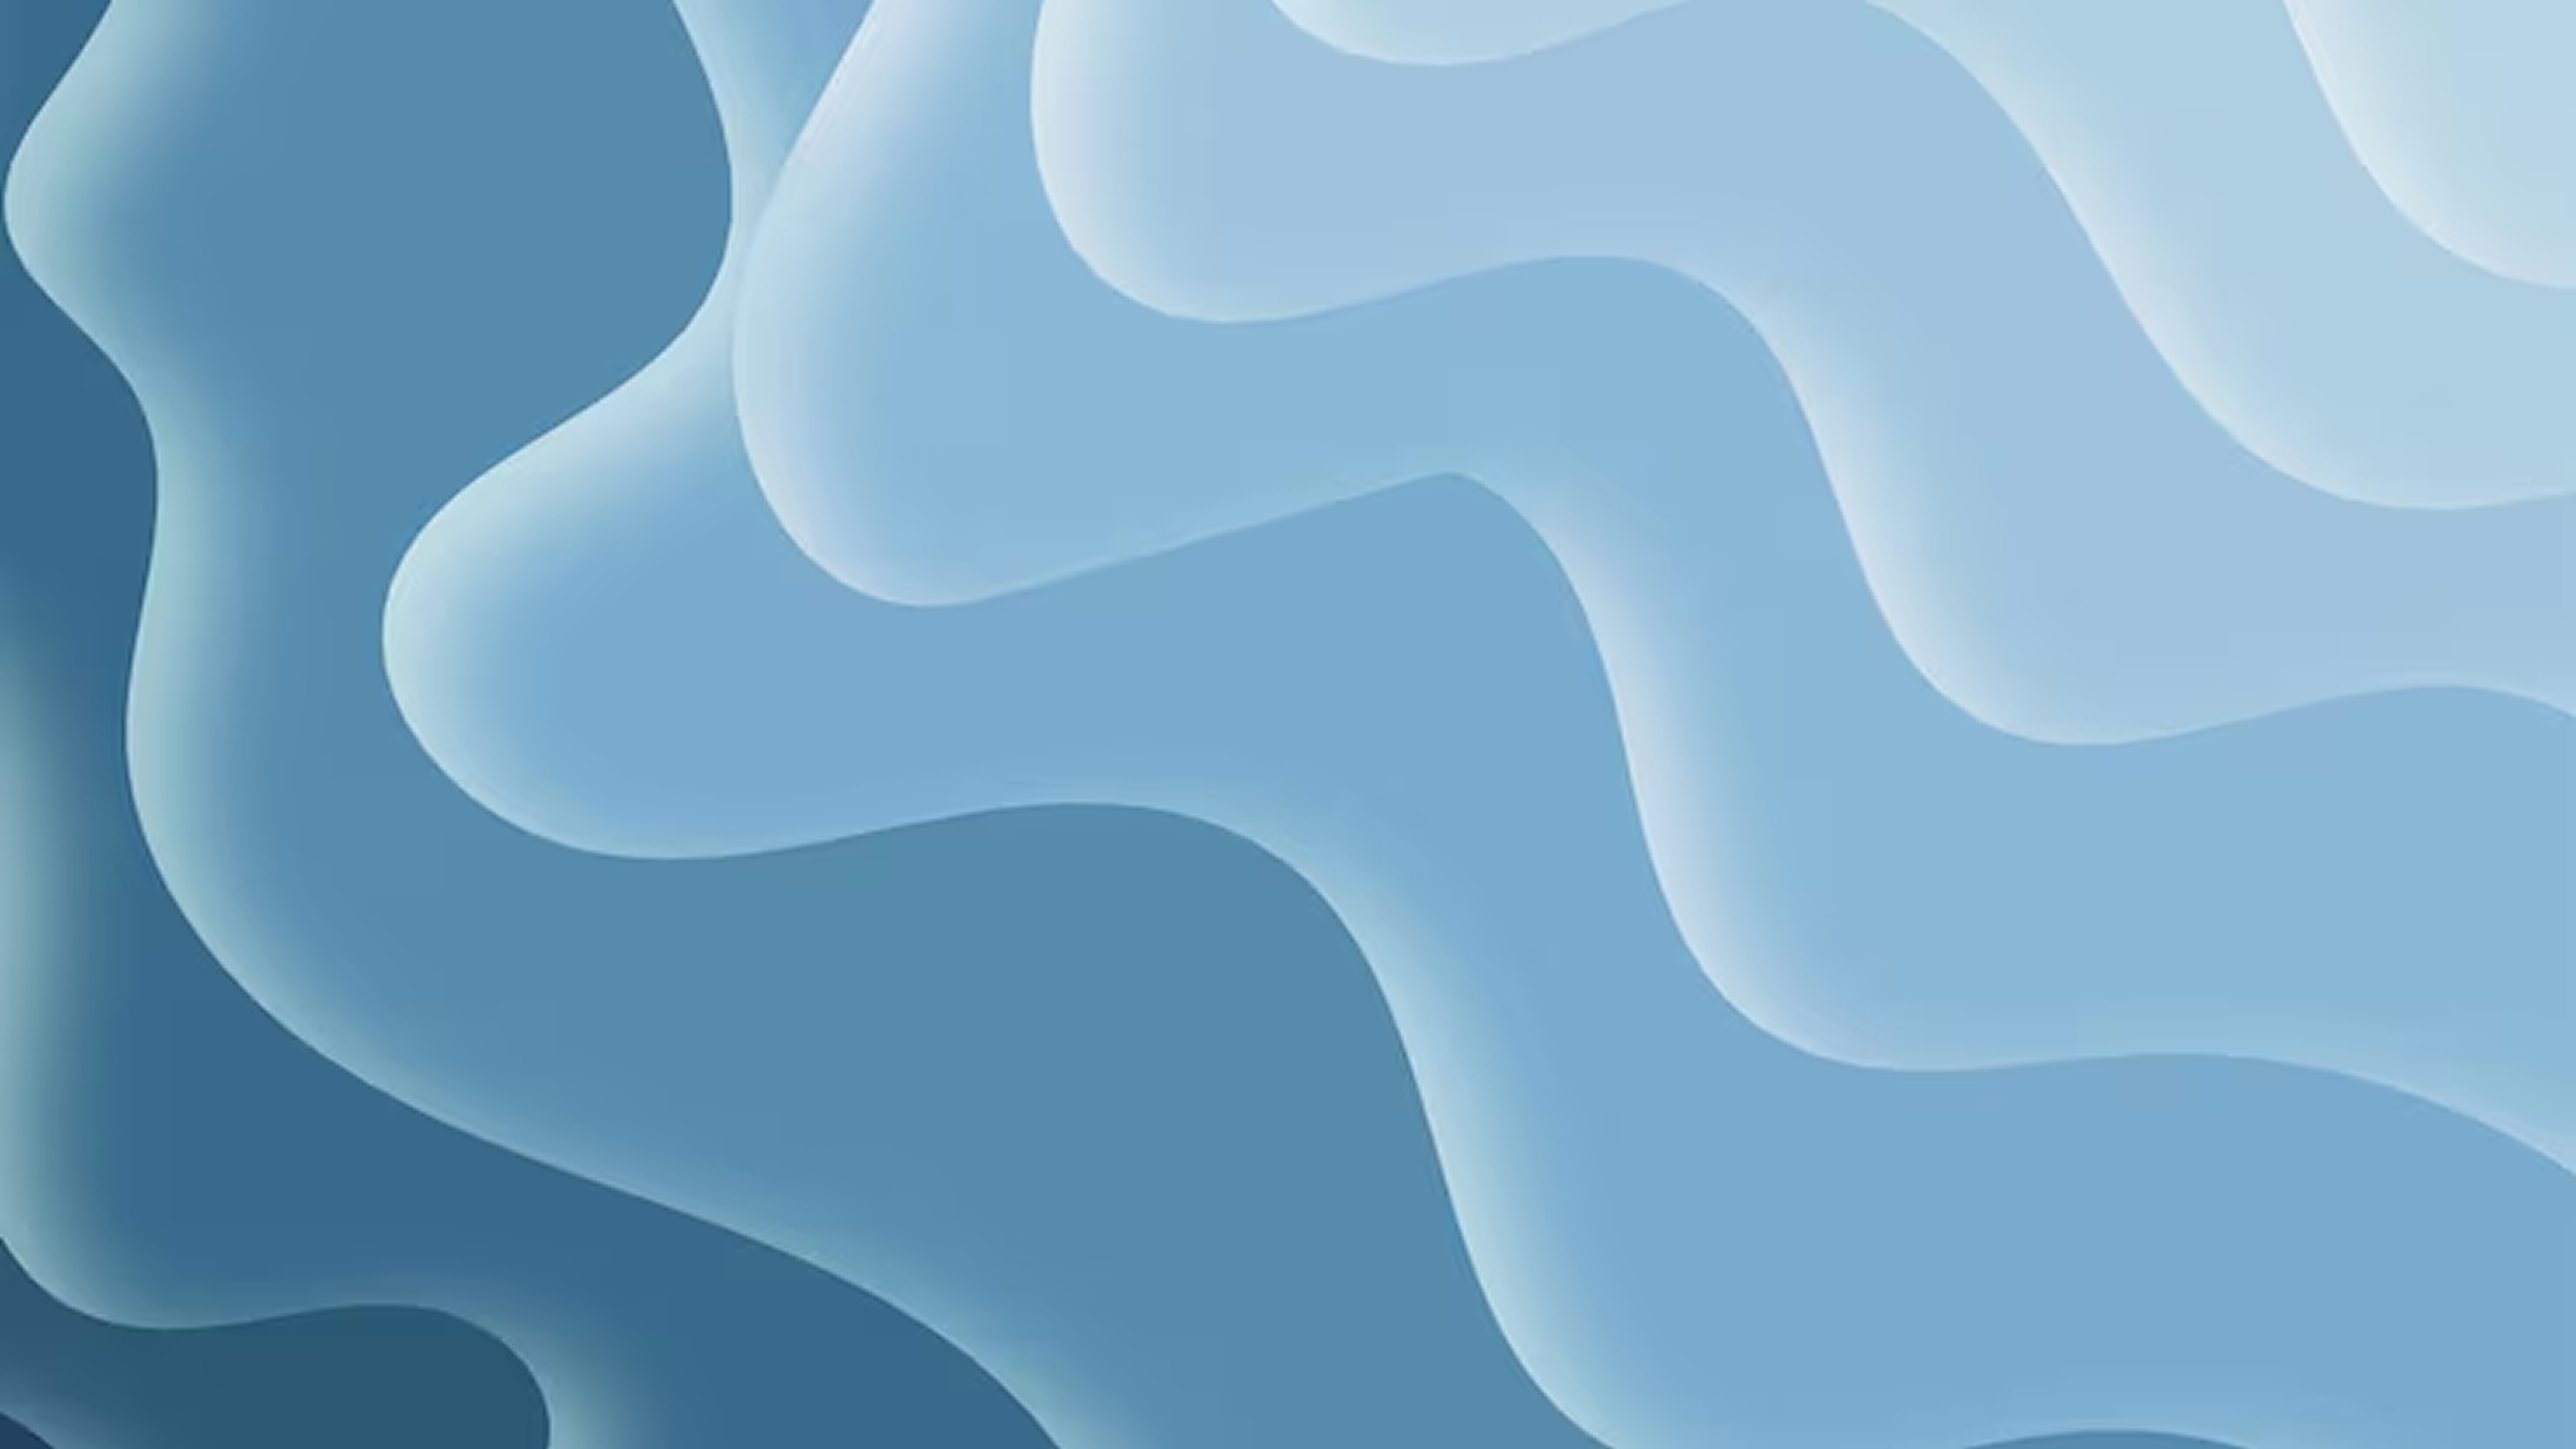
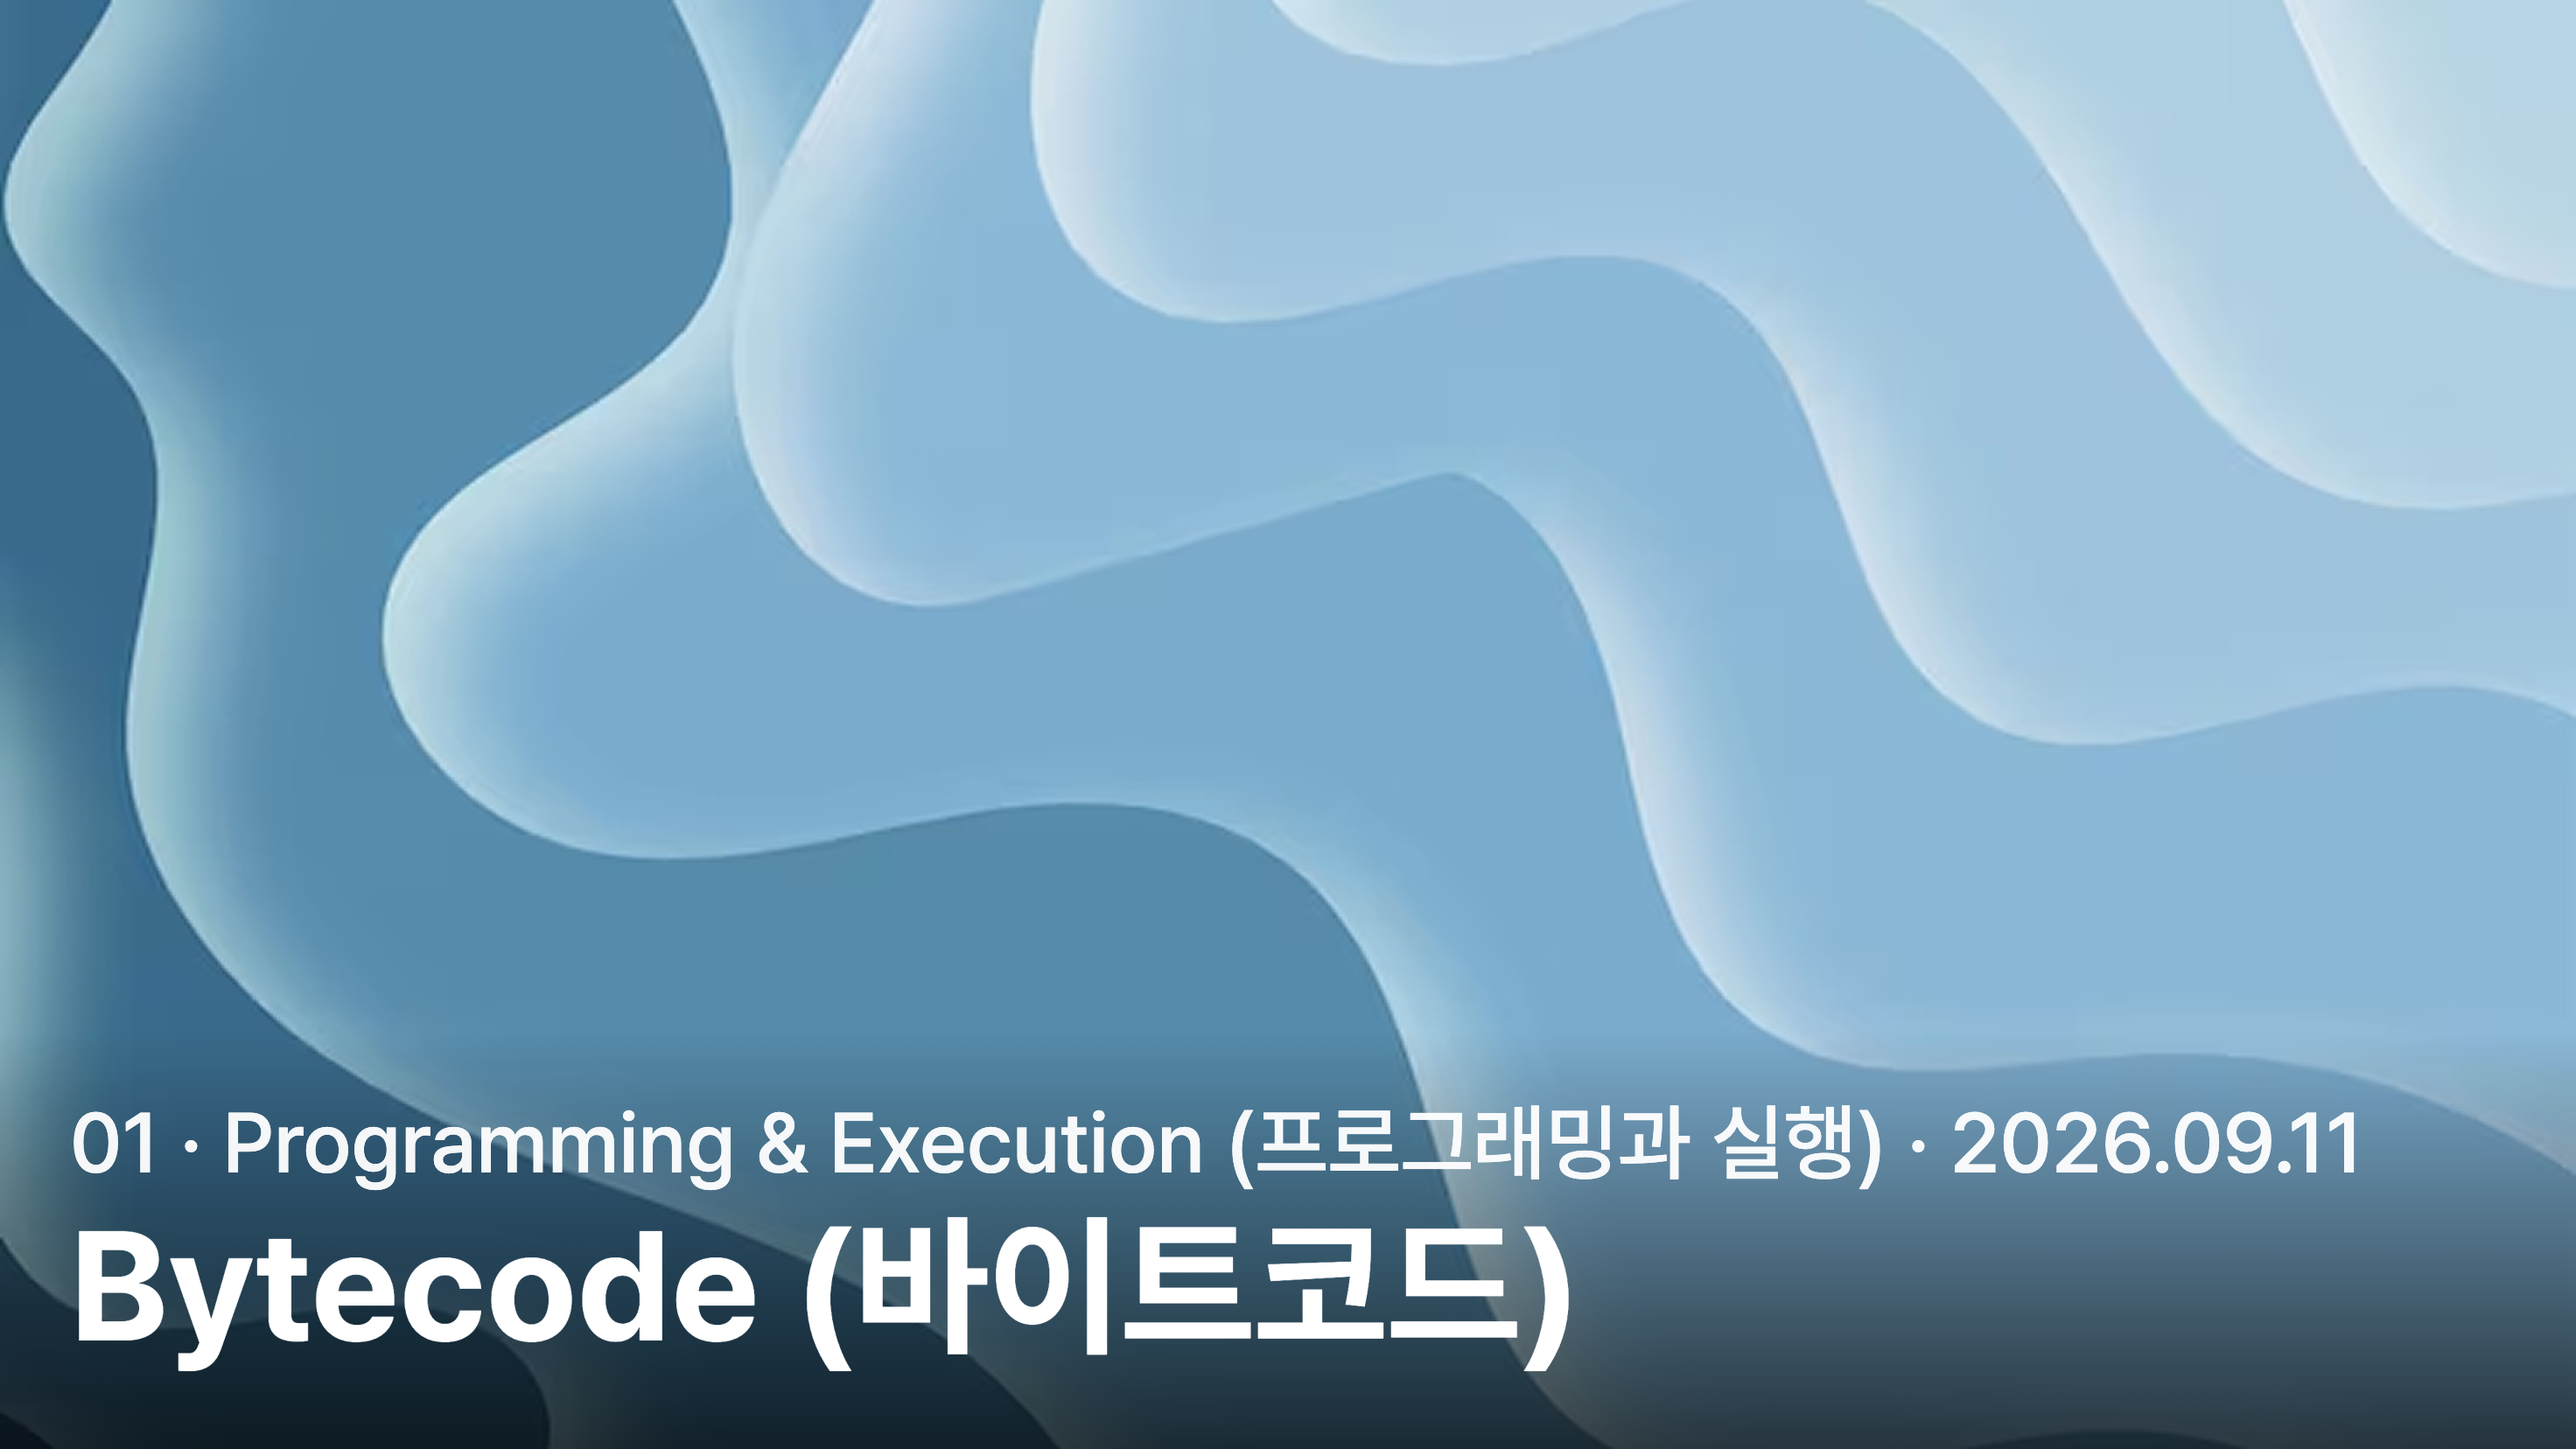
게시글 표지 통일

Changed region(s): [[0.0, 0.7391, 1.0, 1.0]]

diff --git a/00-system-overview/02-program-execution-flow/README.md b/00-system-overview/02-program-execution-flow/README.md
@@ -12,7 +12,7 @@
   <tr>
     <td rowspan="2" width="40%" valign="top">
       <a href="./executable-bytecode/">
-        <img src="../../assets/articles/executable-bytecode/cover.jpg" alt="Executable &amp; Bytecode (실행 파일과 바이트코드)" width="100%">
+        <img src="../../assets/articles/executable-bytecode/cover.png" alt="Executable &amp; Bytecode (실행 파일과 바이트코드)" width="100%">
       </a>
     </td>
     <td width="60%" valign="top">
@@ -32,7 +32,7 @@
   <tr>
     <td rowspan="2" width="40%" valign="top">
       <a href="./compilation-interpretation/">
-        <img src="../../assets/articles/compilation-interpretation/cover.jpg" alt="Compilation &amp; Interpretation (컴파일과 해석)" width="100%">
+        <img src="../../assets/articles/compilation-interpretation/cover.png" alt="Compilation &amp; Interpretation (컴파일과 해석)" width="100%">
       </a>
     </td>
     <td width="60%" valign="top">

diff --git a/00-system-overview/02-program-execution-flow/executable-bytecode/README.md b/00-system-overview/02-program-execution-flow/executable-bytecode/README.md
@@ -4,7 +4,7 @@
 
 <sub>PROGRAM EXECUTION FLOW (프로그램 실행 전체 흐름) · 2026.09.06</sub>
 
-<img src="../../../assets/articles/executable-bytecode/cover.jpg" alt="Executable &amp; Bytecode (실행 파일과 바이트코드)" width="100%">
+<img src="../../../assets/articles/executable-bytecode/cover.png" alt="Executable &amp; Bytecode (실행 파일과 바이트코드)" width="100%">
 
 ## Bytecode 바이트코드
 

diff --git a/00-system-overview/02-program-execution-flow/compilation-interpretation/README.md b/00-system-overview/02-program-execution-flow/compilation-interpretation/README.md
@@ -4,7 +4,7 @@
 
 <sub>PROGRAM EXECUTION FLOW (프로그램 실행 전체 흐름) · 2026.09.05</sub>
 
-<img src="../../../assets/articles/compilation-interpretation/cover.jpg" alt="Compilation &amp; Interpretation (컴파일과 해석)" width="100%">
+<img src="../../../assets/articles/compilation-interpretation/cover.png" alt="Compilation &amp; Interpretation (컴파일과 해석)" width="100%">
 
 ## Compilation 컴파일
 

diff --git a/00-system-overview/01-system-components/README.md b/00-system-overview/01-system-components/README.md
@@ -32,7 +32,7 @@
   <tr>
     <td rowspan="2" width="40%" valign="top">
       <a href="./runtime/">
-        <img src="../../assets/articles/runtime/cover.jpg" alt="Runtime (런타임)" width="100%">
+        <img src="../../assets/articles/runtime/cover.png" alt="Runtime (런타임)" width="100%">
       </a>
     </td>
     <td width="60%" valign="top">

diff --git a/00-system-overview/01-system-components/runtime/README.md b/00-system-overview/01-system-components/runtime/README.md
@@ -4,7 +4,7 @@
 
 <sub>SYSTEM COMPONENTS (시스템 구성 요소) · 2026.09.07</sub>
 
-<img src="../../../assets/articles/runtime/cover.jpg" alt="Runtime (런타임)" width="100%">
+<img src="../../../assets/articles/runtime/cover.png" alt="Runtime (런타임)" width="100%">
 
 ## Runtime Concepts 런타임 개념
 
